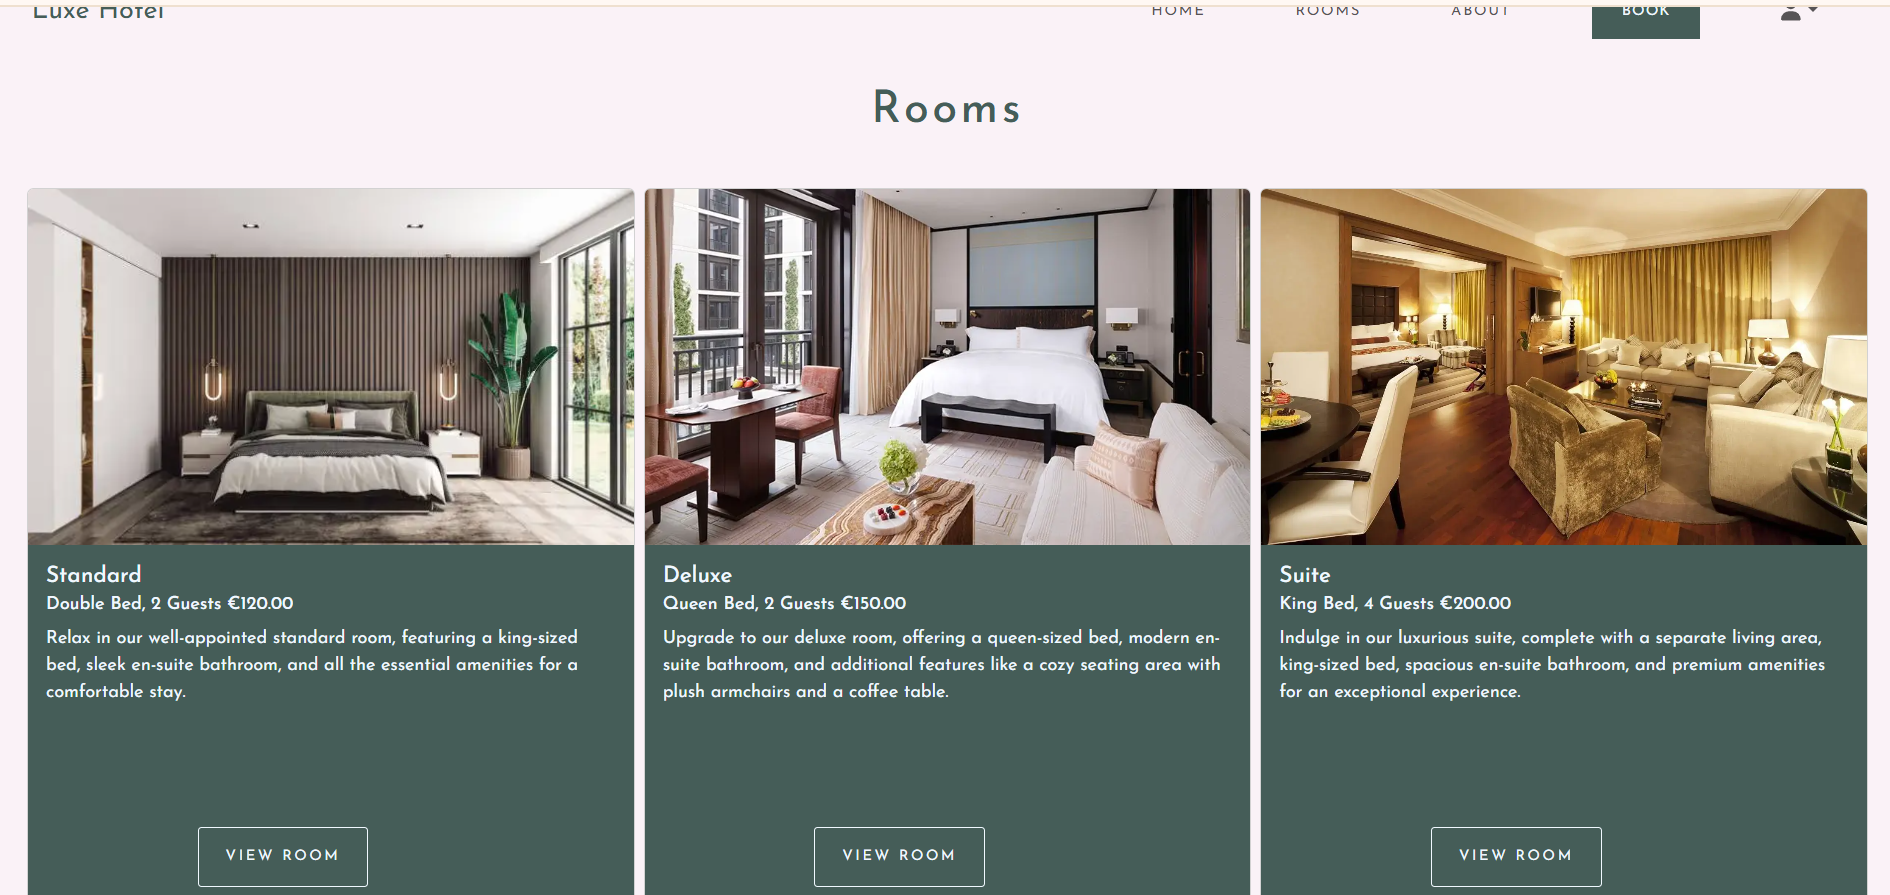
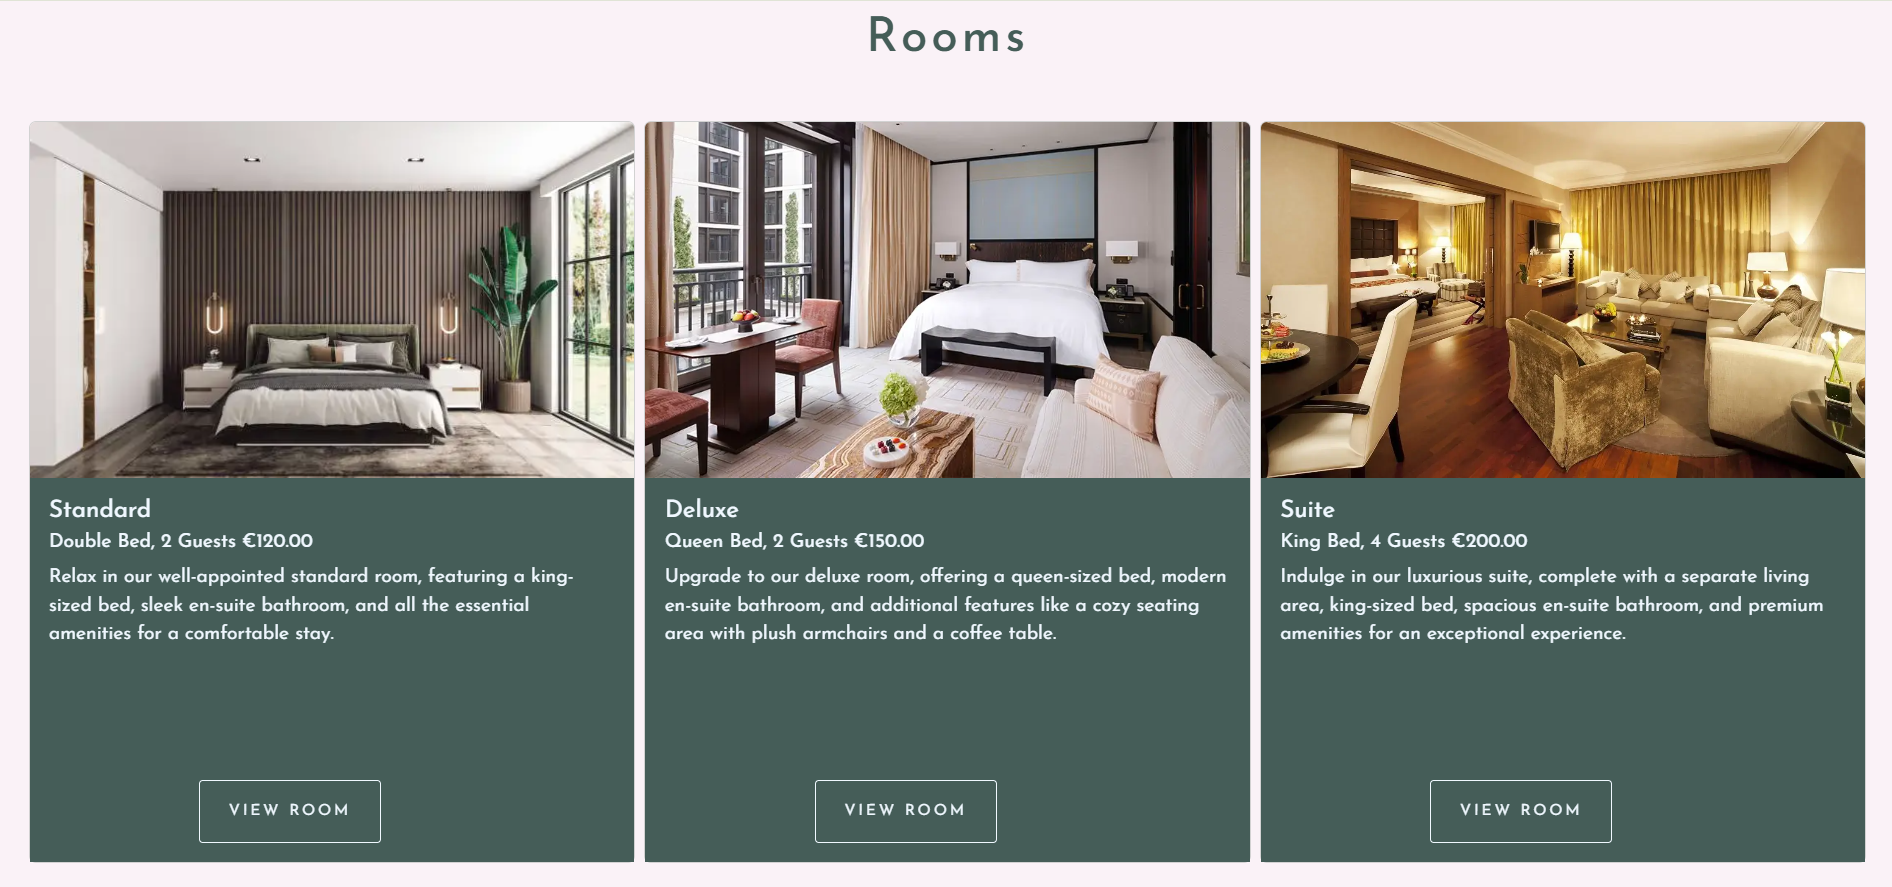
Replace screenshots with poor cropping

diff --git a/README.md b/README.md
@@ -191,7 +191,7 @@ The navigation bar changes based on user status and screen size:
 | Profile          | &#10060;  | &#9989;   |
 | Reservations     | &#10060;  | &#9989;   |
 | Log Out          | &#10060;  | &#9989;   |
-| Sign In           | &#9989;   | &#10060;  |
+| Sign In          | &#9989;   | &#10060;  |
 
 ![Luxe Hotel navigation when signed out screenshot](./src/docs-images/Luxe-Hotel-Logged-Out-Nav.png)
 
@@ -264,7 +264,6 @@ systematically addressing and resolving issues.
 
 - User feedback is actively collected and reviewed to find improvement areas, ensuring that the 
 project evolves to meet user needs and expectations effectively.
-### MoSCoW Prioritization
 
 <hr>
 
@@ -466,7 +465,7 @@ Testing the Setup
 
 ### Testing
 
-[Click here to view the full testing steps](/TESTING.md), which were completed on Google Chrome, Firefox, Abdroid, iOS and MUIU operative systems.
+[Click here to view the full testing steps](), which were completed on Google Chrome, Firefox, Abdroid, iOS and MUIU operative systems.
 
 ### Solved Bugs
 - Styling and Layout Adjustments: Addressed various issues with component layout and styling, particularly in ensuring responsive design across different devices and fixing specific CSS issues such as unwanted scrollbars and inconsistent padding/margins in certain sections.
